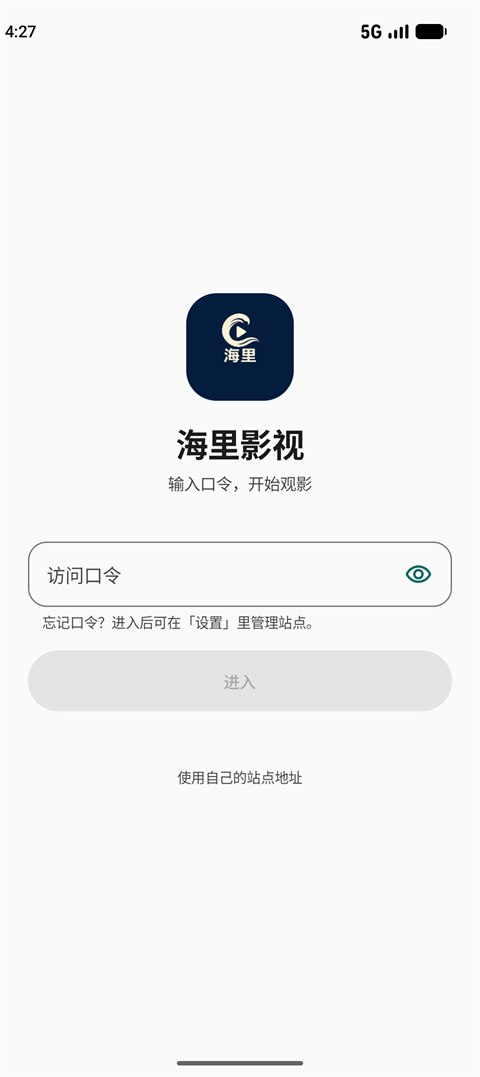
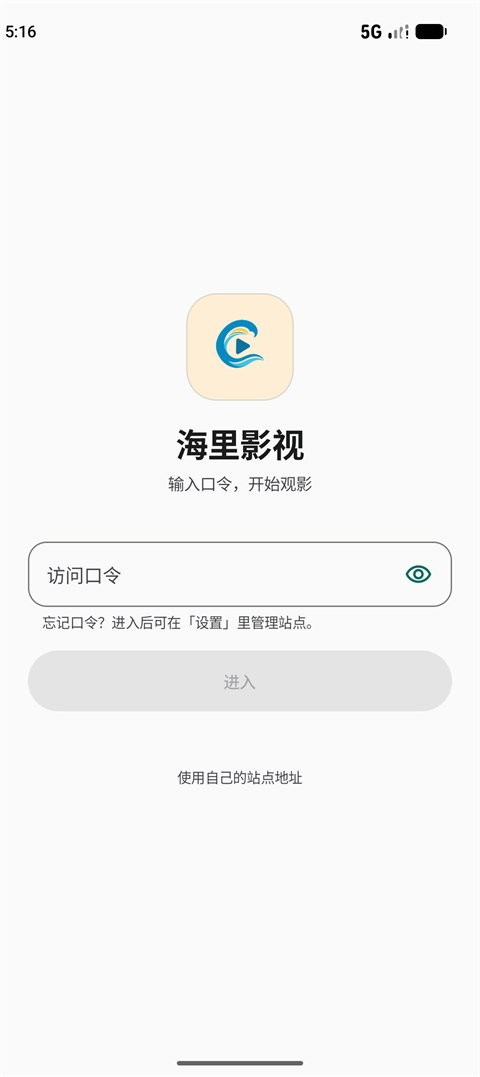
feat: M20 更换应用图标为新海浪播放标
- 新素材抠掉米色底只留图形，背景层交给启动器铺纯色 #FEEED6，任何遮罩都不露白角
- 缩放按图形自身的外接圆半径对齐 66dp 安全区，海浪 C 的四角空白不再浪费画布
- ic_launcher_background 与口令页品牌底同步改为米色，品牌位补发丝描边避免和暖白页面糊在一起
- 单色层保留播放三角（海浪与三角在单色下会糊成一团）
- 版本号 0.20.0-M20 / versionCode 23，README 口令页截图重拍

Changed region(s): [[0.375, 0.2451, 0.625, 0.3983], [0.0312, 0.0, 0.0625, 0.0306]]

diff --git a/app/src/main/java/com/ricebaby/video/ui/unlock/UnlockScreen.kt b/app/src/main/java/com/ricebaby/video/ui/unlock/UnlockScreen.kt
@@ -4,6 +4,7 @@ import androidx.compose.animation.core.Animatable
 import androidx.compose.animation.core.tween
 import androidx.compose.foundation.Image
 import androidx.compose.foundation.background
+import androidx.compose.foundation.border
 import androidx.compose.foundation.layout.Arrangement
 import androidx.compose.foundation.layout.Box
 import androidx.compose.foundation.layout.Column
@@ -56,7 +57,7 @@ import androidx.compose.ui.unit.Dp
 import androidx.compose.ui.unit.dp
 import androidx.lifecycle.compose.collectAsStateWithLifecycle
 import com.ricebaby.video.R
-import com.ricebaby.video.ui.theme.BrandNavy
+import com.ricebaby.video.ui.theme.BrandIconBg
 import com.ricebaby.video.ui.theme.Dimens
 
 /** 首次进入只问口令；站点地址已随安装包内置。 */
@@ -249,13 +250,16 @@ fun BrandSplash() {
 
 @Composable
 private fun BrandMark(size: Dp, corner: Dp, alpha: Float = 1f) {
+    val shape = RoundedCornerShape(corner)
     Box(
         contentAlignment = Alignment.Center,
         modifier = Modifier
             .size(size)
             .alpha(alpha)
-            .clip(RoundedCornerShape(corner))
-            .background(BrandNavy),
+            .clip(shape)
+            .background(BrandIconBg)
+            // 米色图标底在暖白页面上几乎没有对比，补一条发丝描边把它托出来
+            .border(1.dp, MaterialTheme.colorScheme.outlineVariant.copy(alpha = 0.6f), shape),
     ) {
         Image(
             painter = painterResource(id = R.mipmap.ic_launcher_foreground),

diff --git a/app/src/main/java/com/ricebaby/video/ui/theme/Color.kt b/app/src/main/java/com/ricebaby/video/ui/theme/Color.kt
@@ -30,4 +30,4 @@ val DarkOnSurface = Color(0xFFE1E3DF)
 val DarkOnSurfaceVariant = Color(0xFFC0C4C0)
 
 // 应用图标底色，与 ic_launcher_background 保持一致；启动位与口令页共用
-val BrandNavy = Color(0xFF041C3D)
+val BrandIconBg = Color(0xFFFEEED6)

diff --git a/docs/superpowers/specs/2026-10-26-ricebabyvideo-android-design.md b/docs/superpowers/specs/2026-10-26-ricebabyvideo-android-design.md
@@ -148,6 +148,7 @@ RicebabyVideo（`18haventgirl/Ricebaby_Video`）是基于 Next.js 16 + React 19 
 | M17 | 更名「海里影视」、自绘进度条、图标与安全区适配 | `feature/m17-brand-seekbar` |
 | M18 | 移除应用内网络代理设置 | `feature/m18-drop-inapp-proxy` |
 | M19 | 站点地址内置 + 口令门槛 | `feature/m19-builtin-site-unlock` |
+| M20 | 更换应用图标为海浪播放标 | `feature/m20-new-icon` |
 
 > M0–M6 的计划文档见 `docs/superpowers/plans/`；M7 起按用户"不再逐项确认"的授权直接以里程碑分支推进，验收记录落在本文档末尾。
 > M3/M5 交付物已在 M8、M9 分别删除（WebView 播放器与同步桥、IPTV 直播），表中保留仅作历史脉络。
@@ -270,3 +271,10 @@ RicebabyVideo（`18haventgirl/Ricebaby_Video`）是基于 Next.js 16 + React 19 
   - 保留进阶入口：口令页底部「使用自己的站点地址」写入自定义实例并放行；设置页站点列表原样保留，多实例、密码、测试、备份都不动
   - 实测（Pixel_9）：全新安装 → 口令页无任何地址输入 → 错口令出红框与「口令不正确，请再试一次」（输入框抖动 + 清空）→ 正确口令进首页，标签流与海报正常，设置页出现「海里影视 / https://ricebaby-video.pages.dev」且资源自动同步到 78 个 → 杀进程重启不再问口令 → 删除解锁状态文件模拟老用户升级，口令页出现但实例仍只有 1 个，不产生重复站点
   - 过程修正：自带站点对话框原本在点击保存后同步读 `selfHostedError` 判空关窗，协程还没跑必然为空，非法地址被静默吞掉；改为由 `unlocked` 驱动关窗，错误留在对话框里
+- **2026-11-06 M20 完成**（tag `v0.20.0-M20`，46 单测绿）：按用户给的新图重做应用图标
+  - 新素材 `海蓝波浪播放图标.png`（1254²，无 alpha）：米色 `#FEEED6` 圆角方底 + 蓝海浪 C + 播放三角，不再带「海里」字样
+  - 做法换成标准自适应图标分层，不再像 M17 那样把整块方图塞进前景：抠掉米色底与圆角外的近白像素（`r≥245 && g≥225 && b≥195`）只留图形，背景层交给启动器铺纯色 `#FEEED6`，因此圆/方/方圆的任何遮罩都不会露白角
+  - 缩放按「图形到包围盒中心的最大半径」而不是包围盒边长（海浪 C 四角是空的，按包围盒会做得偏小）：半径 728px 对应 66dp 安全区，可见圆 72dp 留 6dp 余量
+  - 同步换色：`ic_launcher_background` 与口令页/启动位的品牌底 `BrandNavy` → `BrandIconBg = #FEEED6`；米色贴在暖白页面上几乎没对比，品牌位补一条 `outlineVariant@0.6` 发丝描边把它托出来
+  - 单色层（Material You 主题图标）仍是播放三角，未随新图重画 —— 海浪 C 与三角在单色下会糊成一团，保留三角更干净
+  - 实测：Pixel_9 应用抽屉里图标为米色圆盘 + 完整海浪播放标，无切边、无白角（外围那圈金色是启动器按图标主色生成的投影气泡，旧 navy 图标同样带一圈浅蓝，非本项目绘制）；口令页品牌位与新图标一致
